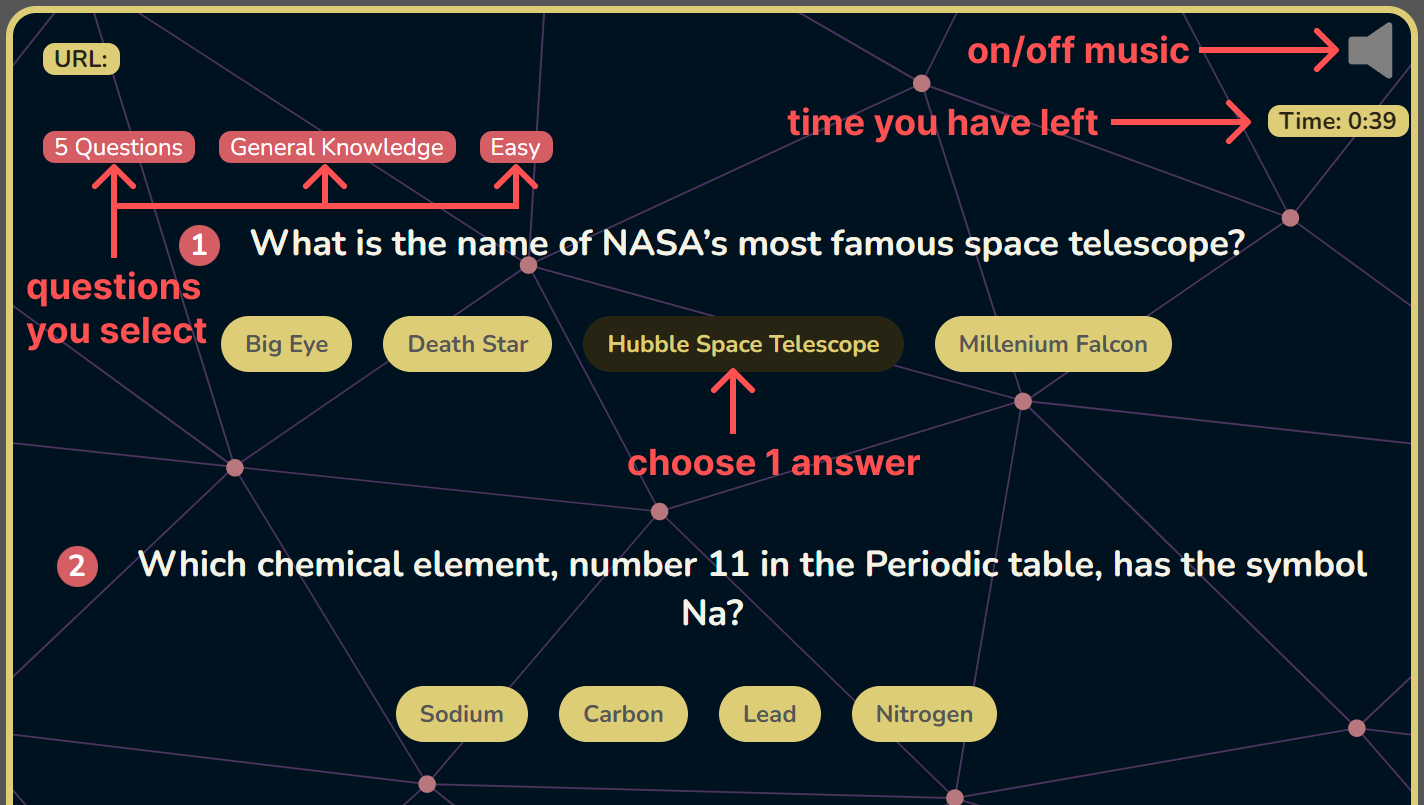
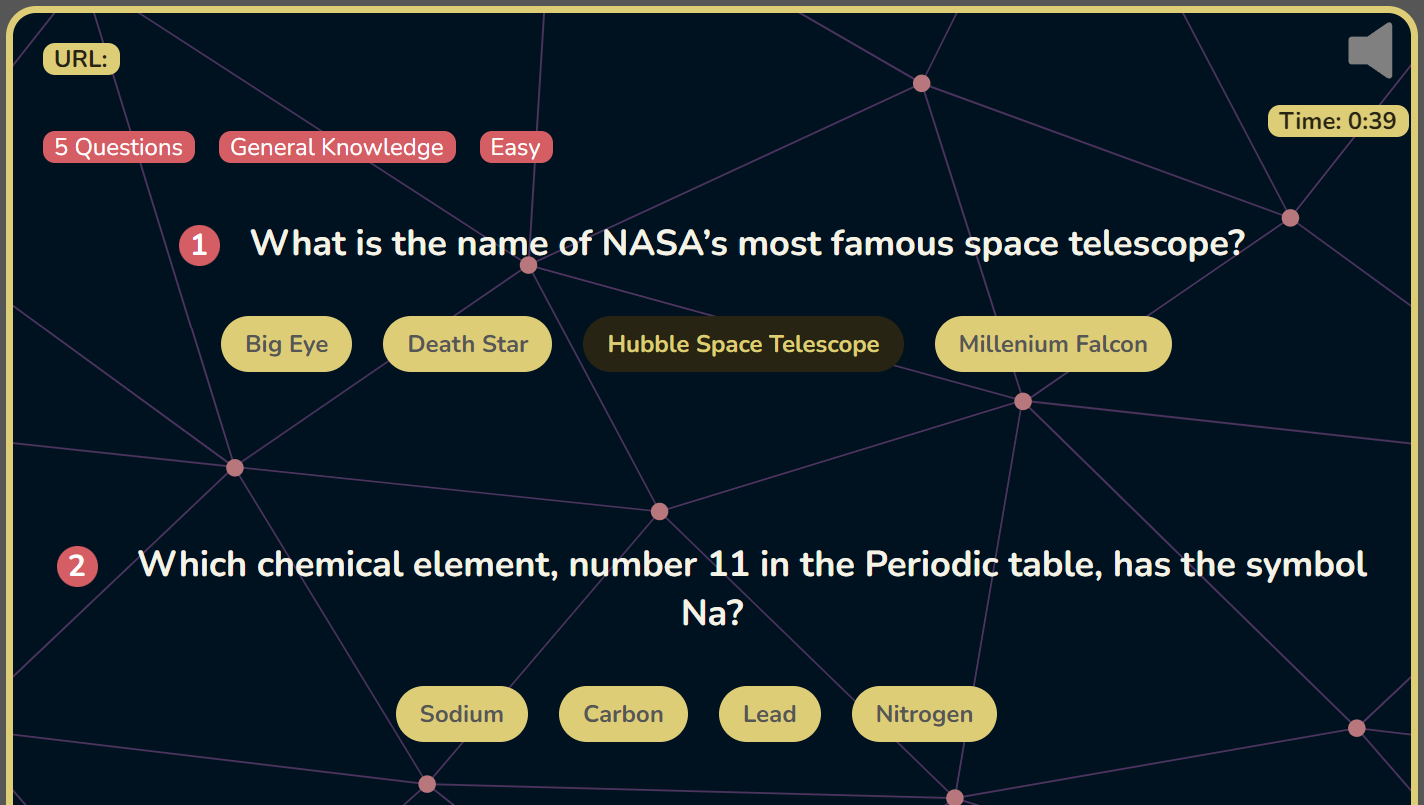
feat: project-02 hover image game play

diff --git a/project-02.html b/project-02.html
@@ -172,7 +172,11 @@
               answers. Choose 1 correct answer within the time limit.
             </p>
 
-            <img src="assets/img/project-02-play-note.png" alt="" />
+            <img
+              id="project-02-play"
+              src="assets/img/project-02-play-note.png"
+              alt=""
+            />
             <br /><br />
 
             <p class="about__description">

diff --git a/assets/css/styles.css b/assets/css/styles.css
@@ -954,6 +954,15 @@ img {
   width: 232px;
 }
 
+#project-02-play {
+  content: url("/assets/img/project-02-play-note.png");
+  cursor: help;
+}
+
+#project-02-play:hover {
+  content: url("/assets/img/project-02-play-note-hover.png");
+}
+
 /*==================== TESTIMONIAL ====================*/
 .testimonial__data,
 .testimonial__header {
